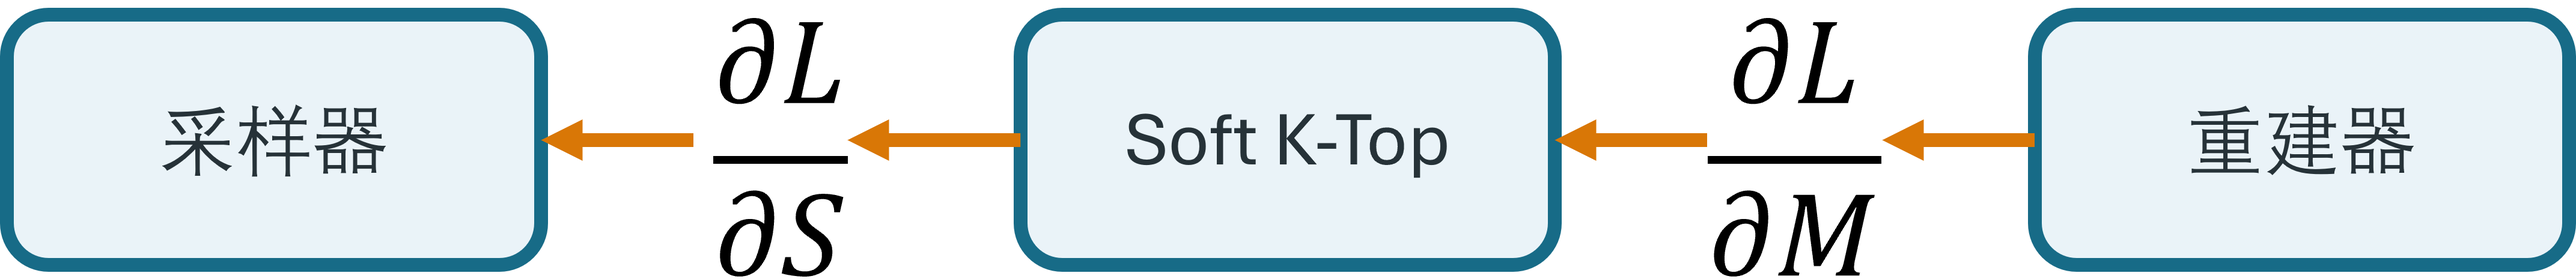
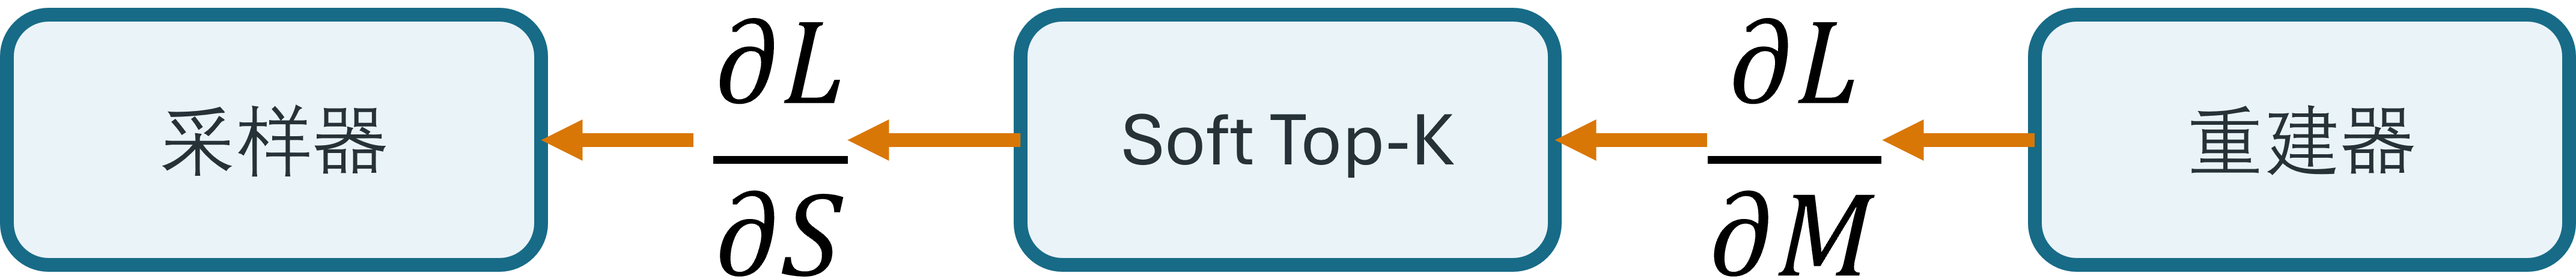
sync

Changed region(s): [[0.4343, 0.3914, 0.5584, 0.6022]]

diff --git a/CONTEXT.md b/CONTEXT.md
@@ -24,6 +24,10 @@ _Avoid_: Nested sampling mask
 The ground truth, sampling mask, sparse channel map, reconstructed channel map, and absolute error retained together for later visualization.
 _Avoid_: Result image, visualization output
 
+**Evaluation Bundle Figure**:
+A four-panel report figure derived from one evaluation bundle, showing the ground truth, sparse channel map, reconstructed channel map, and absolute error.
+_Avoid_: Evaluation bundle, joint image
+
 **Mean Per-Sample Normalized RMSE**:
 For each channel-map sample, normalized RMSE is computed over that sample's valid receiving area; the reported metric is the arithmetic mean of those per-sample RMSE values.
 _Avoid_: Global pixel RMSE, physical-unit RMSE
